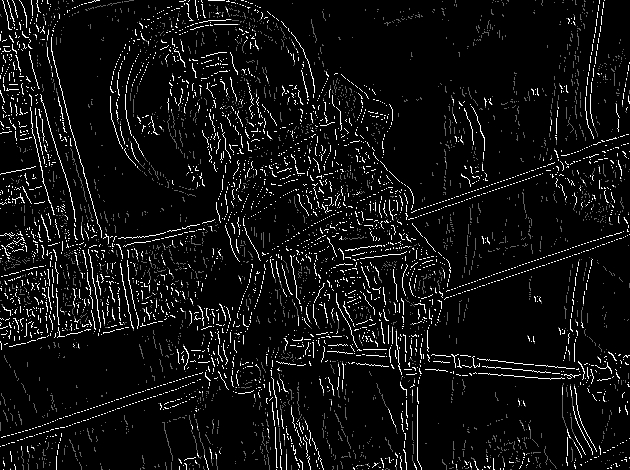
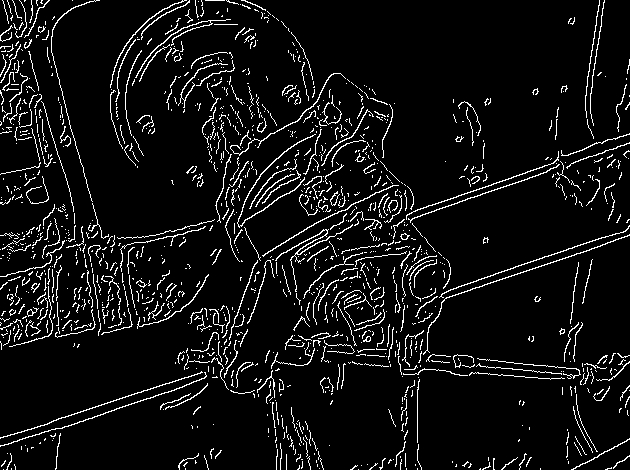
BUG FIXED !!!!!!!!

diff --git a/src/image/imageFilters/cannyFilter.cc b/src/image/imageFilters/cannyFilter.cc
@@ -123,7 +123,7 @@ void Image::applyCannyFilter(unsigned int highLimit, unsigned int lowLimit) {
         }
 
 
-      /*if(-100 <= gradientDirection[i][j] && gradientDirection[i][j] < -75) {
+      if(-100 <= gradientDirection[i][j] && gradientDirection[i][j] < -75) {
         if(gradient[i][j] > gradient[i + 1][j] && gradient[i][j] > gradient[i - 1][j]) {
           HYSTERESIS_THRESOLDING;
         }
@@ -132,7 +132,7 @@ void Image::applyCannyFilter(unsigned int highLimit, unsigned int lowLimit) {
         }
       }
       else if(-75 <= gradientDirection[i][j] && gradientDirection[i][j] < -25) {
-        if(gradient[i][j] > gradient[i + 1][j + 1] && gradient[i][j] > gradient[i - 1][j - 1]) {
+        if(gradient[i][j] > gradient[i - 1][j + 1] && gradient[i][j] > gradient[i + 1][j - 1]) {
           HYSTERESIS_THRESOLDING;
         }
         else {
@@ -148,7 +148,7 @@ void Image::applyCannyFilter(unsigned int highLimit, unsigned int lowLimit) {
         }
       }
       else if(25 <= gradientDirection[i][j] && gradientDirection[i][j] < 75) {
-        if(gradient[i][j] > gradient[i - 1][j + 1] && gradient[i][j] > gradient[i + 1][j - 1]) {
+        if(gradient[i][j] > gradient[i + 1][j + 1] && gradient[i][j] > gradient[i - 1][j - 1]) {
           HYSTERESIS_THRESOLDING;
         }
         else {
@@ -162,7 +162,7 @@ void Image::applyCannyFilter(unsigned int highLimit, unsigned int lowLimit) {
         else {
           newLine.push_back(0);
         }
-      }*/
+      }
 
     }
 

diff --git a/examples/devTest/test.cc b/examples/devTest/test.cc
@@ -19,7 +19,7 @@ int main() {
   //myImage.applyMedianFilter(1);
   myImage.applyGaussianFilter(3);
 
-  myImage.applyCannyFilter(2500, 800);
+  myImage.applyCannyFilter(2500, 3000);
 
   std::cout << "Saving..." << "\n";
 
